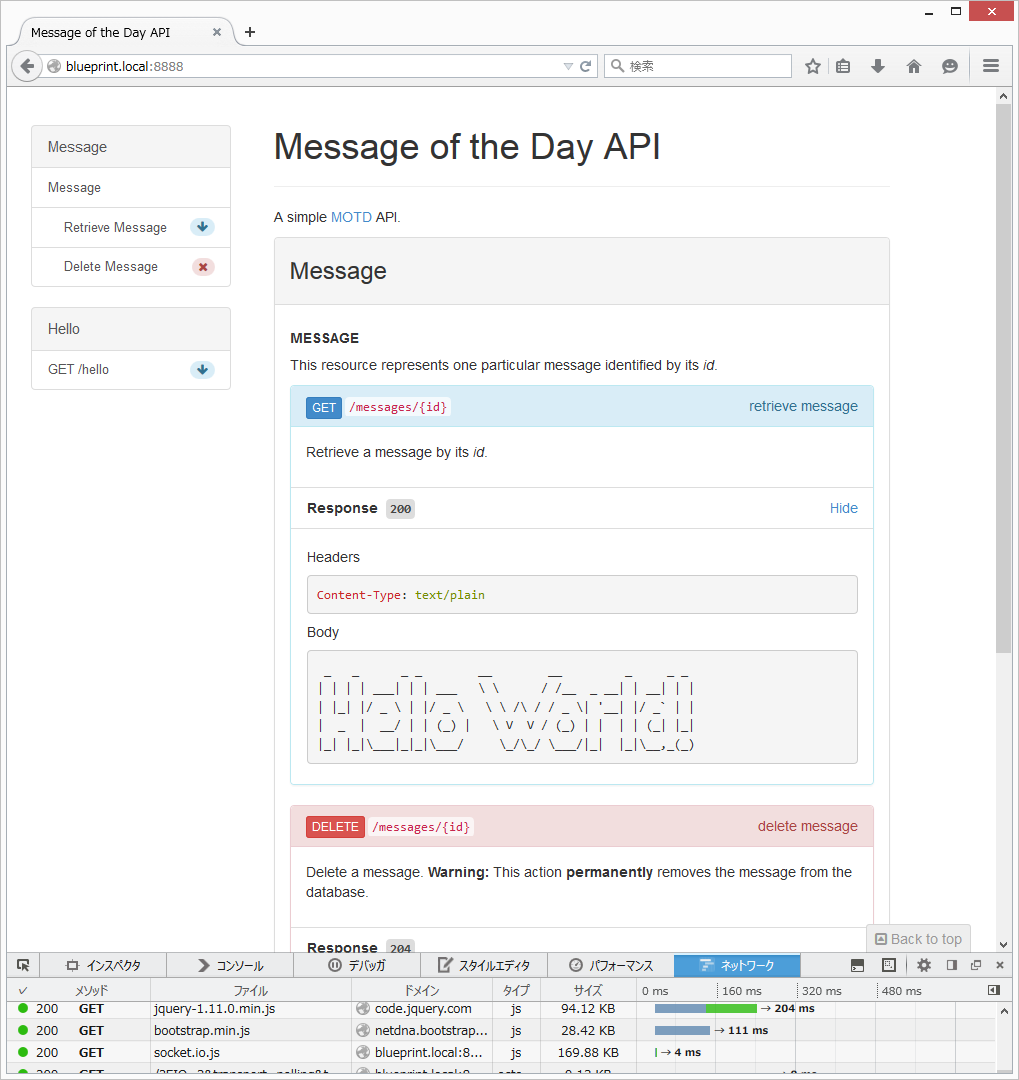
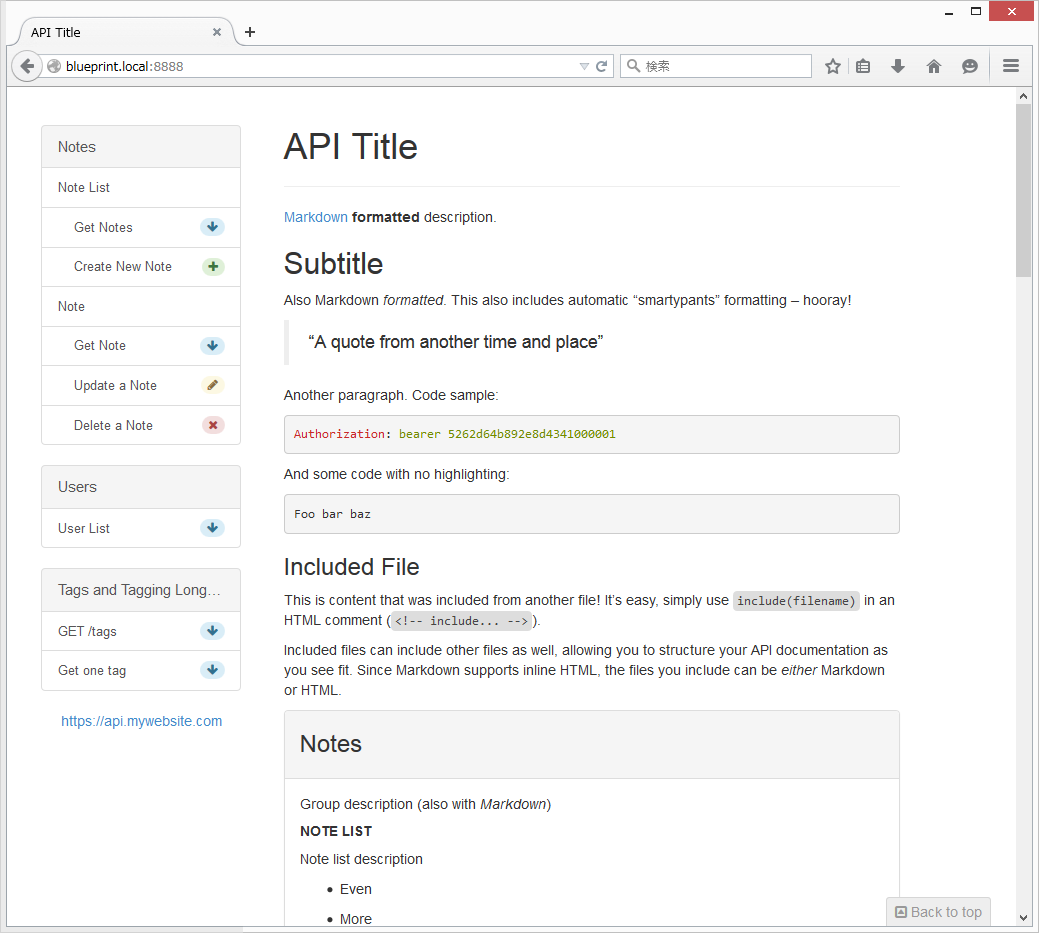
support multipe files make it possible to change index filename

diff --git a/README.md b/README.md
@@ -10,24 +10,23 @@
 ```bash
 git clone https://github.com/mistymagich/docker-blueprinttools.git
 cd docker-blueprinttools
-docker build -t blueprinttools .
+docker build -t blueprint_tools .
 ```
 
 ## run container
 
 ```bash
-docker run -it -p 8080:8080 -p 8888:8888 -v [blueprint document directory]:/blueprint blueprinttools
+docker run \
+    -it \
+    -p 8080:8080 \
+    -p 8888:8888 \
+    -v [blueprint document directory]:/blueprint \
+    (-e BLUEPRINT_TOOLS_DOC_INDEX=index.md \ )
+    blueprint_tools
 ```
 
-[blueprint document directory] - your blueprint documents folder
-
-e.g.
-
-```bash
-git clone https://github.com/apiaryio/api-blueprint.git
-cp api-blueprint/examples/Real\ World\ API.md .
-docker run -it -p 8080:8080 -p 8888:8888 -v `pwd`:/blueprint blueprinttools
-```
+* **[blueprint document directory]** - required, blueprint document folder path
+* **BLUEPRINT_TOOLS_DOC_INDEX** - optional, index page filename (default: index.md)
 
 ## access container
 
@@ -37,22 +36,34 @@ http://127.0.0.1:8888 -  aglio
 
 http://127.0.0.1:8080 - drakov
 
-
-![http://127.0.0.1:8080/messages/hello](https://raw.githubusercontent.com/mistymagich/docker-blueprinttools/master/pic/drakov_get_message.png)
-
-![http://127.0.0.1:8080/hello](https://raw.githubusercontent.com/mistymagich/docker-blueprinttools/master/pic/drakov_get_hello.png)
+![http://127.0.0.1:8080/notes](https://raw.githubusercontent.com/mistymagich/docker-blueprinttools/master/pic/drakov_sample.png)
 
 
-## use Vagrant
+## example
+
+### single blueprint document
+
+```bash
+git clone https://github.com/apiaryio/api-blueprint.git
+cp api-blueprint/examples/Real\ World\ API.md index.md
+docker run -it -p 8080:8080 -p 8888:8888 -v `pwd`:/blueprint blueprint_tools
+```
+
+### use BLUEPRINT_TOOLS_DOC_INDEX and multiple files
+
+```bash
+git clone https://github.com/danielgtaylor/aglio
+docker run -it -p 8080:8080 -p 8888:8888 -v `pwd`/aglio:/blueprint -e "BLUEPRINT_TOOLS_DOC_INDEX=example.md" blueprint_tools
+```
+
+## use Vagrant (optional)
 
 ### requirements
 
 * [VirtualBox](https://www.virtualbox.org)
 * [Vagrant](https://www.vagrantup.com)
-* Vagrantプラグイン
-
+* Vagrant plug-in
 	* [Vagrant Host Manager](https://github.com/smdahlen/vagrant-hostmanager)
-
 	  ```
 	  vagrant plugin install vagrant-hostmanager
 	  ```
@@ -62,8 +73,13 @@ http://127.0.0.1:8080 - drakov
 ```bash
 git clone https://github.com/mistymagich/docker-blueprinttools.git
 cd docker-blueprinttools
+```
+
+edit **docker-compose.yml** for folder path and index filename.
+(currecnt directory mounted '/vagrant' at guest OS.)
+
+```bash
 vagrant up
 ```
 
-access http://blueprint.local:8080,http://blueprint.local:8888
-
+access http://blueprint.local:8080 and http://blueprint.local:8888

diff --git a/sample/index.md b/sample/index.md
@@ -27,7 +27,8 @@ Delete a message. **Warning:** This action **permanently** removes the message f
 
 + Response 204
 
-
 # Group Hello
 
-<!-- include(1_include.md) -->
+<!-- include(include.md) -->
+
+<!-- include(subdirectory/subinclude.md) -->

diff --git a/sample/subdirectory/subinclude.md b/sample/subdirectory/subinclude.md
@@ -1,0 +1,13 @@
+## GET /hellohello
+
+nested directory sample
+
++ Response 200 (application/json)
+
+    + Body
+
+        ```json
+        {
+            "message": "HelloHello"
+        }
+        ```
